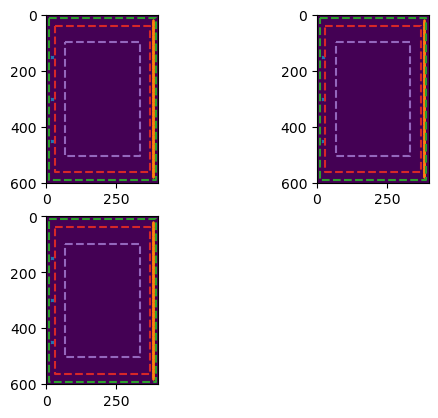
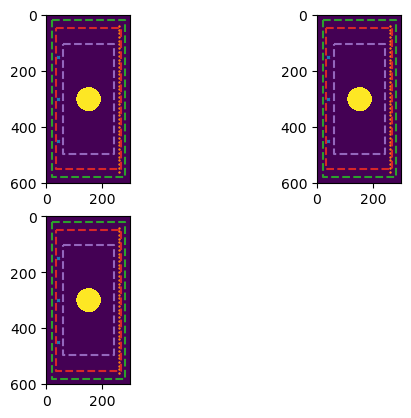
.

Changed region(s): [[0.0292, 0.0311, 0.3796, 0.9952], [0.6423, 0.0311, 0.9927, 0.4976], [0.8467, 0.1866, 0.9051, 0.2799]]

diff --git a/src/cpu/n_simulate_PSV.cpp b/src/cpu/n_simulate_PSV.cpp
@@ -13,8 +13,6 @@
 #include <iostream>
 #include <math.h>
 #include <omp.h>
-#include <fstream>
-#include <string>
 
 
 void simulate_fwd_PSV(int nt, int nz, int nx, real dt, real dz, real dx, 
@@ -207,21 +205,21 @@ void simulate_fwi_PSV(int nt, int nz, int nx, real dt, real dz, real dx,
     //PCG_old = new real[nz*nx*3];
     //PCG_dir = new real[nz*nx*3];
     //allocate_array(PCG_new, nz, nx);
-    allocate_array(PCG_lam, nz, nx);
-    allocate_array(PCG_mu, nz, nx);
-    allocate_array(PCG_rho, nz, nx);
+    // allocate_array(PCG_lam, nz, nx);
+    // allocate_array(PCG_mu, nz, nx);
+    // allocate_array(PCG_rho, nz, nx);
 
-    allocate_array(PCG_dir_lam, nz, nx);
-    allocate_array(PCG_dir_mu, nz, nx);
-    allocate_array(PCG_dir_rho, nz, nx);
+    // allocate_array(PCG_dir_lam, nz, nx);
+    // allocate_array(PCG_dir_mu, nz, nx);
+    // allocate_array(PCG_dir_rho, nz, nx);
     
-    for (int iz=0;iz<nz;iz++){
-        for (int ix=0;ix<nx;ix++){
-            PCG_dir_lam[iz][ix] = 0.0;
-            PCG_dir_mu[iz][ix] = 0.0;
-            PCG_dir_rho[iz][ix] = 0.0;
-        }
-    }
+    // for (int iz=0;iz<nz;iz++){
+    //     for (int ix=0;ix<nx;ix++){
+    //         PCG_dir_lam[iz][ix] = 0.0;
+    //         PCG_dir_mu[iz][ix] = 0.0;
+    //         PCG_dir_rho[iz][ix] = 0.0;
+    //     }
+    // }
 
 
     //-----------------------------------------------
@@ -244,17 +242,9 @@ void simulate_fwi_PSV(int nt, int nz, int nx, real dt, real dz, real dx,
     for (int ll=0;ll<1000;ll++){ L2_norm[ll] = 0.0;}
     real step_length = 0.01; // step length set to initial
     real step_length_rho = 0.01; // step length set to initial
-
-    real**gauss_filter, **gauss_temp_shot;
-    int hfs = 3;
-    int snap_nz = 1 + (snap_z2 - snap_z1)/snap_dz;
-    int snap_nx = 1 + (snap_x2 - snap_x1)/snap_dx;
-
-    //allocate_array(gauss_filter, 2*hfs+1, 2*hfs+1);
-    //allocate_array(gauss_temp_shot, snap_nz, snap_nx);
-    //gauss_filter_kernel(gauss_filter, hfs);
-
-    std::cout<< "Gauss filter calculated";
+    
+    double dif=0;
+   
 
     while (iter){ // currently 10 just for test (check the conditions later)
         //
@@ -380,7 +370,7 @@ void simulate_fwi_PSV(int nt, int nz, int nx, real dt, real dz, real dx,
     //     }
     // }
 
-
+    //     std::cout << "This is test CPU>ADJOINT \nLAM_SHOT=" << l << " \nMU_SHOT=" << m << " \nRHO_SHOT=" << r << " \n\n";
 
         // Smoothen the grad shots
         // Applying gauss filter to material gradients
@@ -466,14 +456,12 @@ void simulate_fwi_PSV(int nt, int nz, int nx, real dt, real dz, real dx,
         //apply_gauss_filter(grad_mu, We_adj, gauss_filter, 0, nz, 0, nx, hfs);
         //apply_gauss_filter(grad_rho, We_adj, gauss_filter, 0, nz, 0, nx, hfs);
 
-        
+        /*
         //write_mat(grad_lam, grad_mu, grad_rho, nz, nx, 1000*(iterstep+1)+1);
         // Applying PSG method
         beta_i = 0.0; beta_j = 0.0;
-        
         for (int iz=0;iz<nz;iz++){
             for (int ix=0;ix<nx;ix++){
-                
 
                 // Fletcher-Reeves [Fletcher and Reeves, 1964]:
                 beta_i += grad_lam[iz][ix] * (grad_lam[iz][ix] - PCG_lam[iz][ix]);
@@ -490,8 +478,6 @@ void simulate_fwi_PSV(int nt, int nz, int nx, real dt, real dz, real dx,
            
             }
         }
-        
-
         beta_PCG = (iterstep) ? (beta_i/beta_j) : 0.0;
         std::cout << "beta = "<< beta_PCG ;
         beta_PCG = (beta_PCG >0) ? beta_PCG : 0.0;
@@ -511,18 +497,7 @@ void simulate_fwi_PSV(int nt, int nz, int nx, real dt, real dz, real dx,
            
             }
         }
-        
-        // removing gradient update in the region of air
-        for (int iz=0;iz<nz;iz++){
-            for (int ix=0;ix<nx;ix++){
-                if (rho[iz][ix] < 10){
-                    grad_lam[iz][ix] = 0.0;
-                    grad_mu[iz][ix] = 0.0;
-                    grad_rho[iz][ix] = 0.0;
-
-                }
-            }
-        }
+        */
 
         //write_mat(grad_lam, grad_mu, grad_rho, nz, nx, 1000*(iterstep+1)+2);
         // ----------------------
@@ -564,14 +539,14 @@ void simulate_fwi_PSV(int nt, int nz, int nx, real dt, real dz, real dx,
         */
      
         // Update material parameters to the gradients !!
-		update_mat2(lam, lam_copy, grad_lam, 4.8e+10, 1000, step_length, nz, nx);
-        update_mat2(mu, mu_copy, grad_mu, 2.7e+10, 1000, step_length, nz, nx);
+		update_mat2(lam, lam_copy, grad_lam, 4.8e+10, 0.0, step_length, nz, nx);
+        update_mat2(mu, mu_copy, grad_mu, 2.7e+10, 0.0, step_length, nz, nx);
 
         step_length_rho = 0.5 * step_length;
-        update_mat2(rho, rho_copy, grad_rho, 3000.0, 100, step_length_rho, nz, nx);
+        update_mat2(rho, rho_copy, grad_rho, 3000.0, 1.25, step_length_rho, nz, nx);
 
         double end = omp_get_wtime(); // end the timer
-        double dif = end - start;            // stores the difference in dif
+        dif = end - start;            // stores the difference in dif
         std::cout << "==================================" << std::endl;
         std::cout << "the time of single FWI iteration = " << dif << "s\n";
         std::cout << "==================================" << std::endl;
@@ -584,21 +559,9 @@ void simulate_fwi_PSV(int nt, int nz, int nx, real dt, real dz, real dx,
         if (mat_save_interval>0 && !(iterstep%mat_save_interval)){
             // Writing the accumulation array
             std::cout << "Writing updated material to binary file for ITERATION " << iterstep ;
-
             write_mat(lam, mu, rho, nz, nx, iterstep);
-
             std::cout <<" <DONE>"<< std::endl;
         }
-        std::ofstream out("l2norm_out.txt");
-        std::streambuf *coutbuf = std::cout.rdbuf(); //save old buf
-        std::cout.rdbuf(out.rdbuf()); //redirect std::cout to out.txt!
-
-        std::cout << "L2 norm: " ;
-        for (int ii=0;ii<200;ii++){
-            std::cout << L2_norm[ii] << ", ";
-        }
-        std::cout << std::endl;
-
         
  
        //
@@ -617,7 +580,11 @@ void simulate_fwi_PSV(int nt, int nz, int nx, real dt, real dz, real dx,
         write_mat(lam, mu, rho, nz, nx, iterstep);
         std::cout <<" <DONE>"<< std::endl;
     }
+    // writing the L2 norm
+    std::cout << "L2 norms: " << std::endl;
+    for (int iL2 = 0; iL2 < iterstep+1; iL2++){
+        std::cout << L2_norm[iL2] << ", " ;
+    }
 
-    
 }
 

diff --git a/scripts/pre_proc_fwi.py b/scripts/pre_proc_fwi.py
@@ -14,7 +14,7 @@ fdorder = 2 # finite difference order
 fpad = 1 # number of additional grids for finite difference computation
 
 #forward only or fWI?
-fwinv = True # True: FWI, False: Forward only
+fwinv = False # True: FWI, False: Forward only
 
 # Internal parameters for different cases 
 if (fwinv):
@@ -42,19 +42,19 @@ cuda_computation = False # True: computation in GPU, False: in CPU
 # GRID PARAMETERS
 #--------------------------------------------------------------------
 
-x = 10
-z = 15
+x = 15
+z = 30
 
 # Geometric data
-nt = 4000; nz = 601; nx = 401 # grid numbers (adding for PMLs as well)
-dt = 0.94e-5; 
+nt = 2500; nz = 601; nx = 301 # grid numbers (adding for PMLs as well)
+dt = 2.35e-5; 
 dz = z/(nz-1) #; 
 dx = x/(nx-1) # grid intervals
 
 print('Spacing: ', dt, dz, dx)
 # Number of PMLs in each direction
 pml_z = True; pml_x = True # PML exist in both direction
-npml_top = 10; npml_bottom = 10; npml_left = 10; npml_right = 10
+npml_top = 20; npml_bottom = 20; npml_left = 20; npml_right = 20
 
 
 # Surface grid index in each direction (0 = no surface)
@@ -146,7 +146,7 @@ pml_npower_pml = 2.0
 damp_v_pml = Cp
 rcoef = 0.001
 k_max_pml = 1.0
-freq_pml = 800.0 # PML frequency in Hz
+freq_pml = 300.0 # PML frequency in Hz
 
 # -----------------------------------------------------
 
@@ -164,7 +164,7 @@ stf_type = 1; rtf_type = 0 # 1:velocity, 2:displacement
 # Creating source locations
 zsrc = np.array([nz/4, 2*nz/4, 3*nz/4], dtype=np.int32)
 
-xsrc = np.full((zsrc.size,), npml_left+10, dtype=np.int32)
+xsrc = np.full((zsrc.size,), npml_left+20, dtype=np.int32)
 nsrc = zsrc.size # counting number of sources from the source location data
 
 
@@ -175,8 +175,8 @@ src_shot_to_fire = np.arange(0,nsrc,1, dtype=np.int32)
 nshot = nsrc # fire each shot separately
 
 # Creating reciever locations
-zrec = np.arange((npml_top+10), (nz-npml_bottom-10), 2, dtype=np.int32)
-xrec = np.full((zrec.size,), nx-npml_right-10, dtype=np.int32)
+zrec = np.linspace((npml_top+20), (nz-npml_bottom-20), 40, dtype=np.int32)
+xrec = np.full((zrec.size,), nx-npml_right-20, dtype=np.int32)
 nrec = zrec.size
 
 

diff --git a/scripts/post_proc.py b/scripts/post_proc.py
@@ -69,8 +69,8 @@ if (fwinv):
     maxiter = 14
     for ii in range(0,maxiter,1):
         # reading data from csv file
-        mat_dat = read_tensor("./bin/mat.bin", np.float64, (3, ndim[1], ndim[2]))
-        #mat_dat = read_tensor("../io/mat_save/iter"+np.str(ii)+"_mat copy.bin", np.float64, (3, ndim[1], ndim[2]))
+        #mat_dat = read_tensor("./bin/mat.bin", np.float64, (3, ndim[1], ndim[2]))
+        mat_dat = read_tensor("./bin/iter"+np.str(ii)+"_mat.bin", np.float64, (3, ndim[1], ndim[2]))
         
         lam = mat_dat[0][:][:]
         mu = mat_dat[1][:][:]
@@ -110,6 +110,7 @@ if (fwinv):
         else:
             plt.pause(0.005)
             plt.clf()
+        plt.savefig('./iter'+np.str(ii)+'_mat.png', format='png', bbox_inches='tight')
         
         #print('Figure '+np.str(ii)+' plotted.')
 
@@ -175,6 +176,7 @@ else:
         #pyplot.savefig('../io/vz_snap'+numpy.str(ii)+'.pdf', format='pdf',figsize=(10,7), dpi=1000)
         #plt.show()
         #plt.draw()
+        plt.savefig('./mat_fwd.png', format='png', bbox_inches='tight')
         plt.pause(0.01)
         plt.clf()
         
